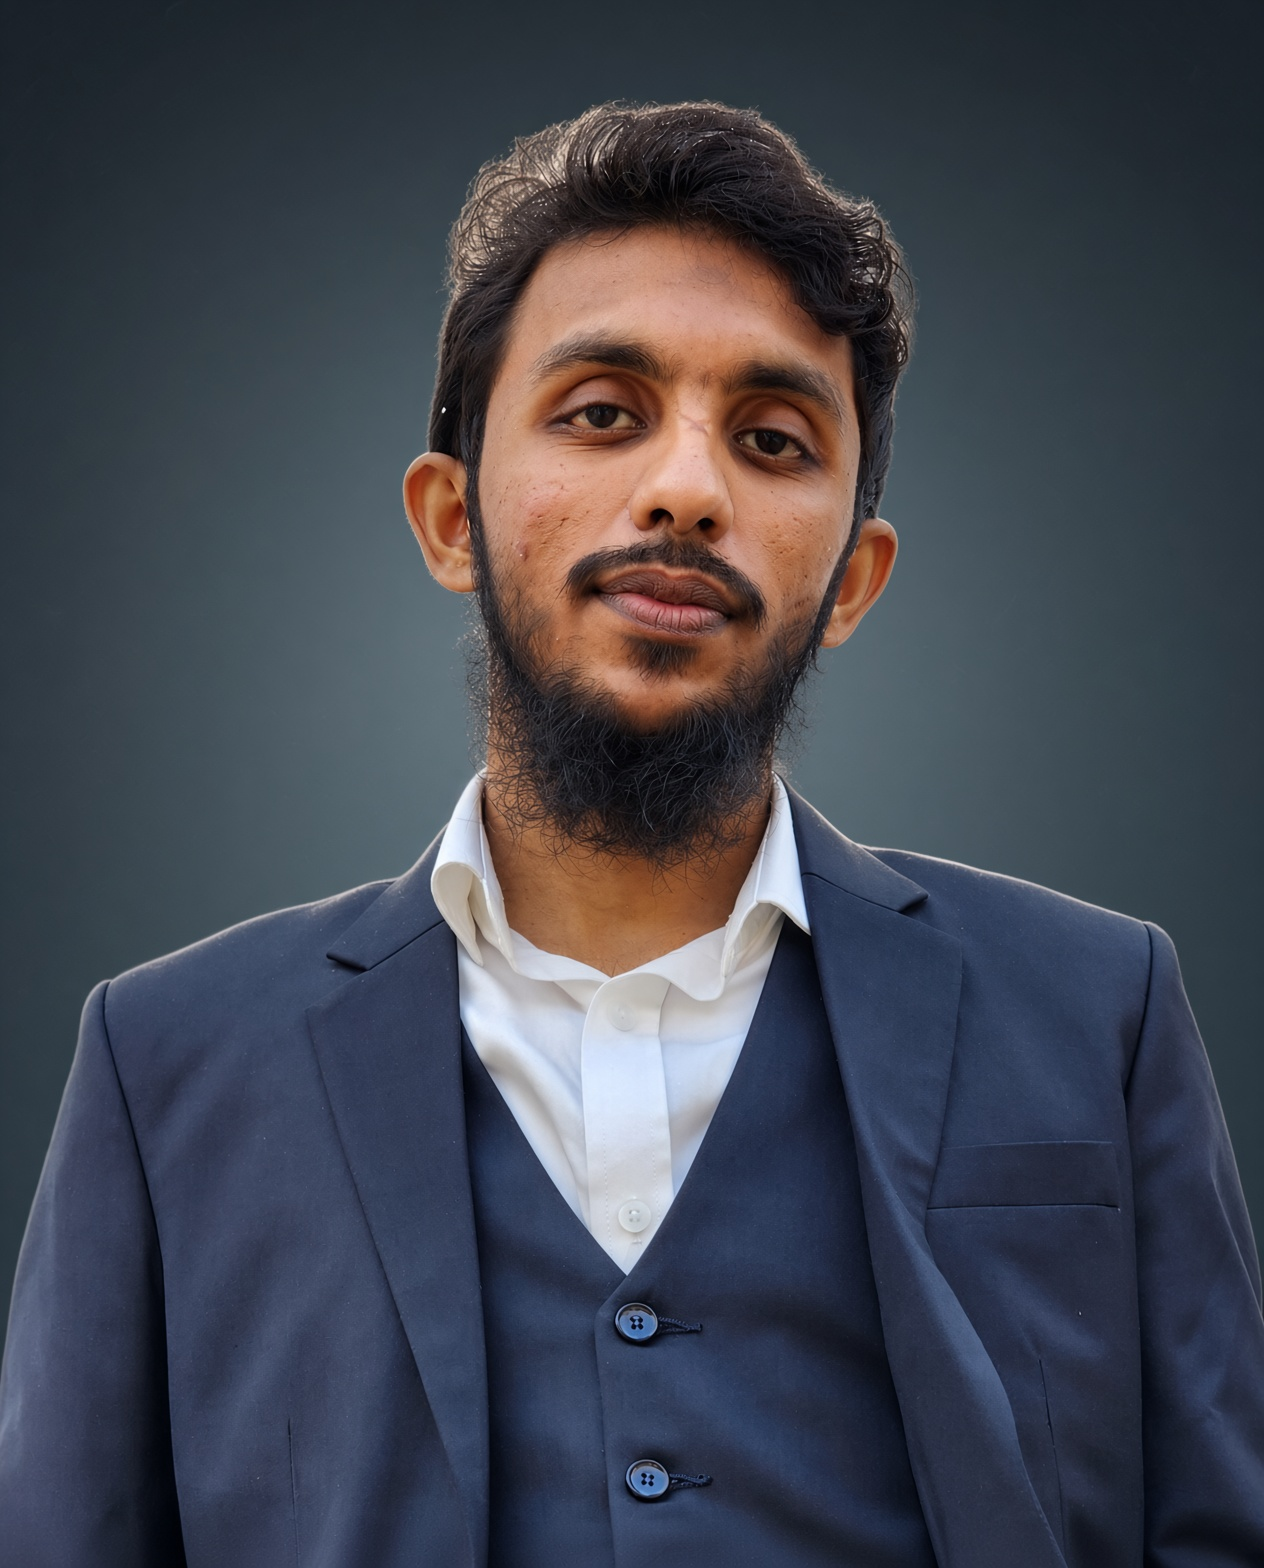
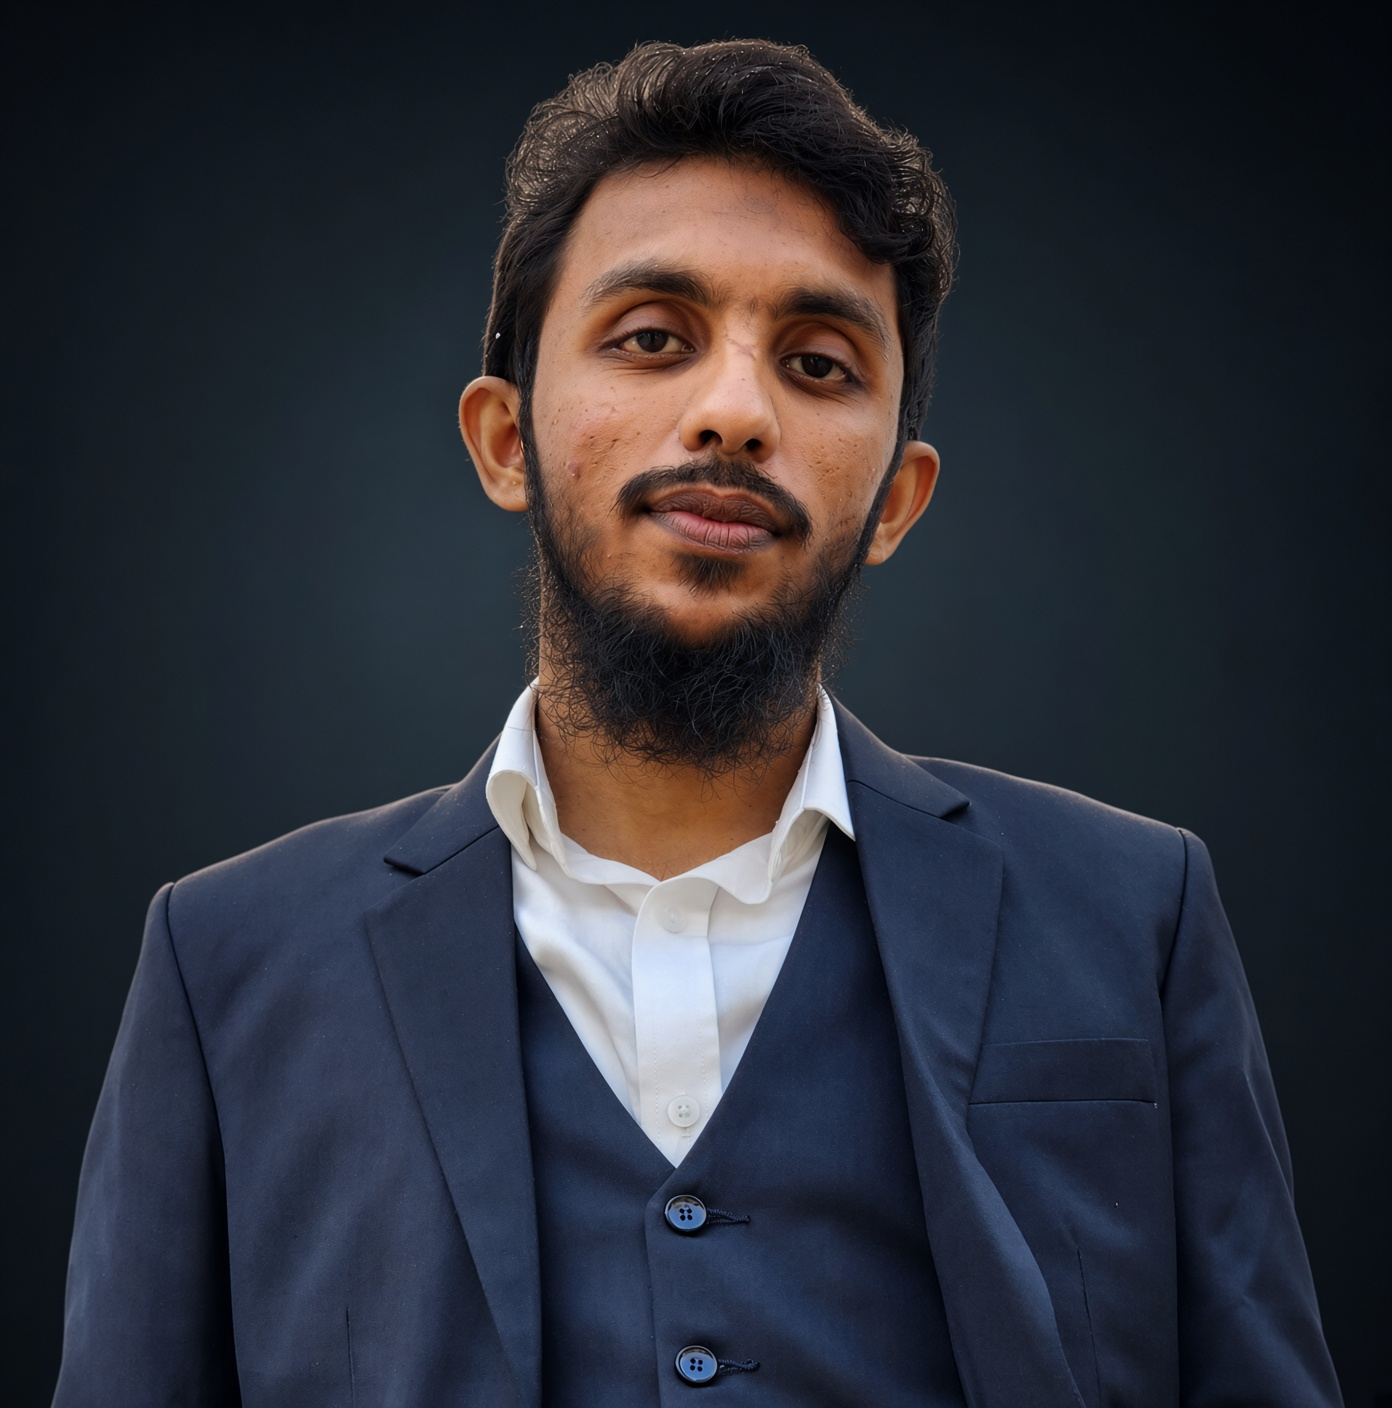
Use the approved portrait without a rectangular frame.

diff --git a/src/App.js b/src/App.js
@@ -776,24 +776,27 @@ export default function App() {
                     ))}
                 </div>
             </div>
-            <div className="relative mx-auto w-full max-w-md">
-                <div className={`absolute inset-x-8 top-10 bottom-0 rounded-3xl border shadow-2xl
-                    ${theme === 'light' || theme === 'spring' ? 'bg-stone-200/80 border-stone-300' :
-                      theme === 'midnight' ? 'bg-indigo-950/70 border-indigo-400/20' :
-                      theme === 'rain' ? 'bg-[#16343c]/70 border-sky-200/20' :
-                      theme === 'ruby' ? 'bg-rose-950/70 border-rose-400/20' :
-                      theme === 'emerald' ? 'bg-emerald-950/70 border-emerald-400/20' :
-                      theme === 'nature' ? 'bg-green-950/70 border-lime-400/20' :
-                      theme === 'musgravite' ? 'bg-purple-950/70 border-purple-300/20' :
-                      theme === 'dark' ? 'bg-neutral-900/80 border-teal-400/20' :
-                      'bg-white/10 border-white/15'} backdrop-blur-md`} />
-                <div className="relative aspect-[4/5] overflow-visible">
-                    <img
-                      src={PORTFOLIO_DATA.profile.photo}
-                      alt={PORTFOLIO_DATA.profile.name}
-                      className="absolute left-1/2 -translate-x-1/2 bottom-[-8%] w-[122%] max-w-none object-cover object-top drop-shadow-[0_28px_45px_rgba(0,0,0,0.5)] pointer-events-none select-none"
-                    />
-                </div>
+            <div className="relative mx-auto w-full max-w-sm flex items-center justify-center min-h-[22rem] md:min-h-[26rem]">
+                <div className={`absolute w-64 h-64 md:w-80 md:h-80 rounded-full blur-2xl opacity-50
+                    ${theme === 'light' || theme === 'spring' ? 'bg-stone-300' :
+                      theme === 'midnight' ? 'bg-indigo-700' :
+                      theme === 'rain' ? 'bg-sky-800' :
+                      theme === 'ruby' ? 'bg-rose-800' :
+                      theme === 'emerald' ? 'bg-emerald-800' :
+                      theme === 'nature' ? 'bg-lime-800' :
+                      theme === 'musgravite' ? 'bg-purple-800' :
+                      theme === 'dark' ? 'bg-teal-800' :
+                      'bg-white/20'}`} />
+                <img
+                  src={PORTFOLIO_DATA.profile.photo}
+                  alt={PORTFOLIO_DATA.profile.name}
+                  className="relative z-10 w-[88%] max-w-md pointer-events-none select-none"
+                  style={{
+                    maskImage: 'radial-gradient(ellipse 68% 72% at 50% 42%, #000 58%, transparent 78%)',
+                    WebkitMaskImage: 'radial-gradient(ellipse 68% 72% at 50% 42%, #000 58%, transparent 78%)',
+                    filter: 'drop-shadow(0 18px 28px rgba(0,0,0,0.35))'
+                  }}
+                />
             </div>
         </div>
       </Section>
